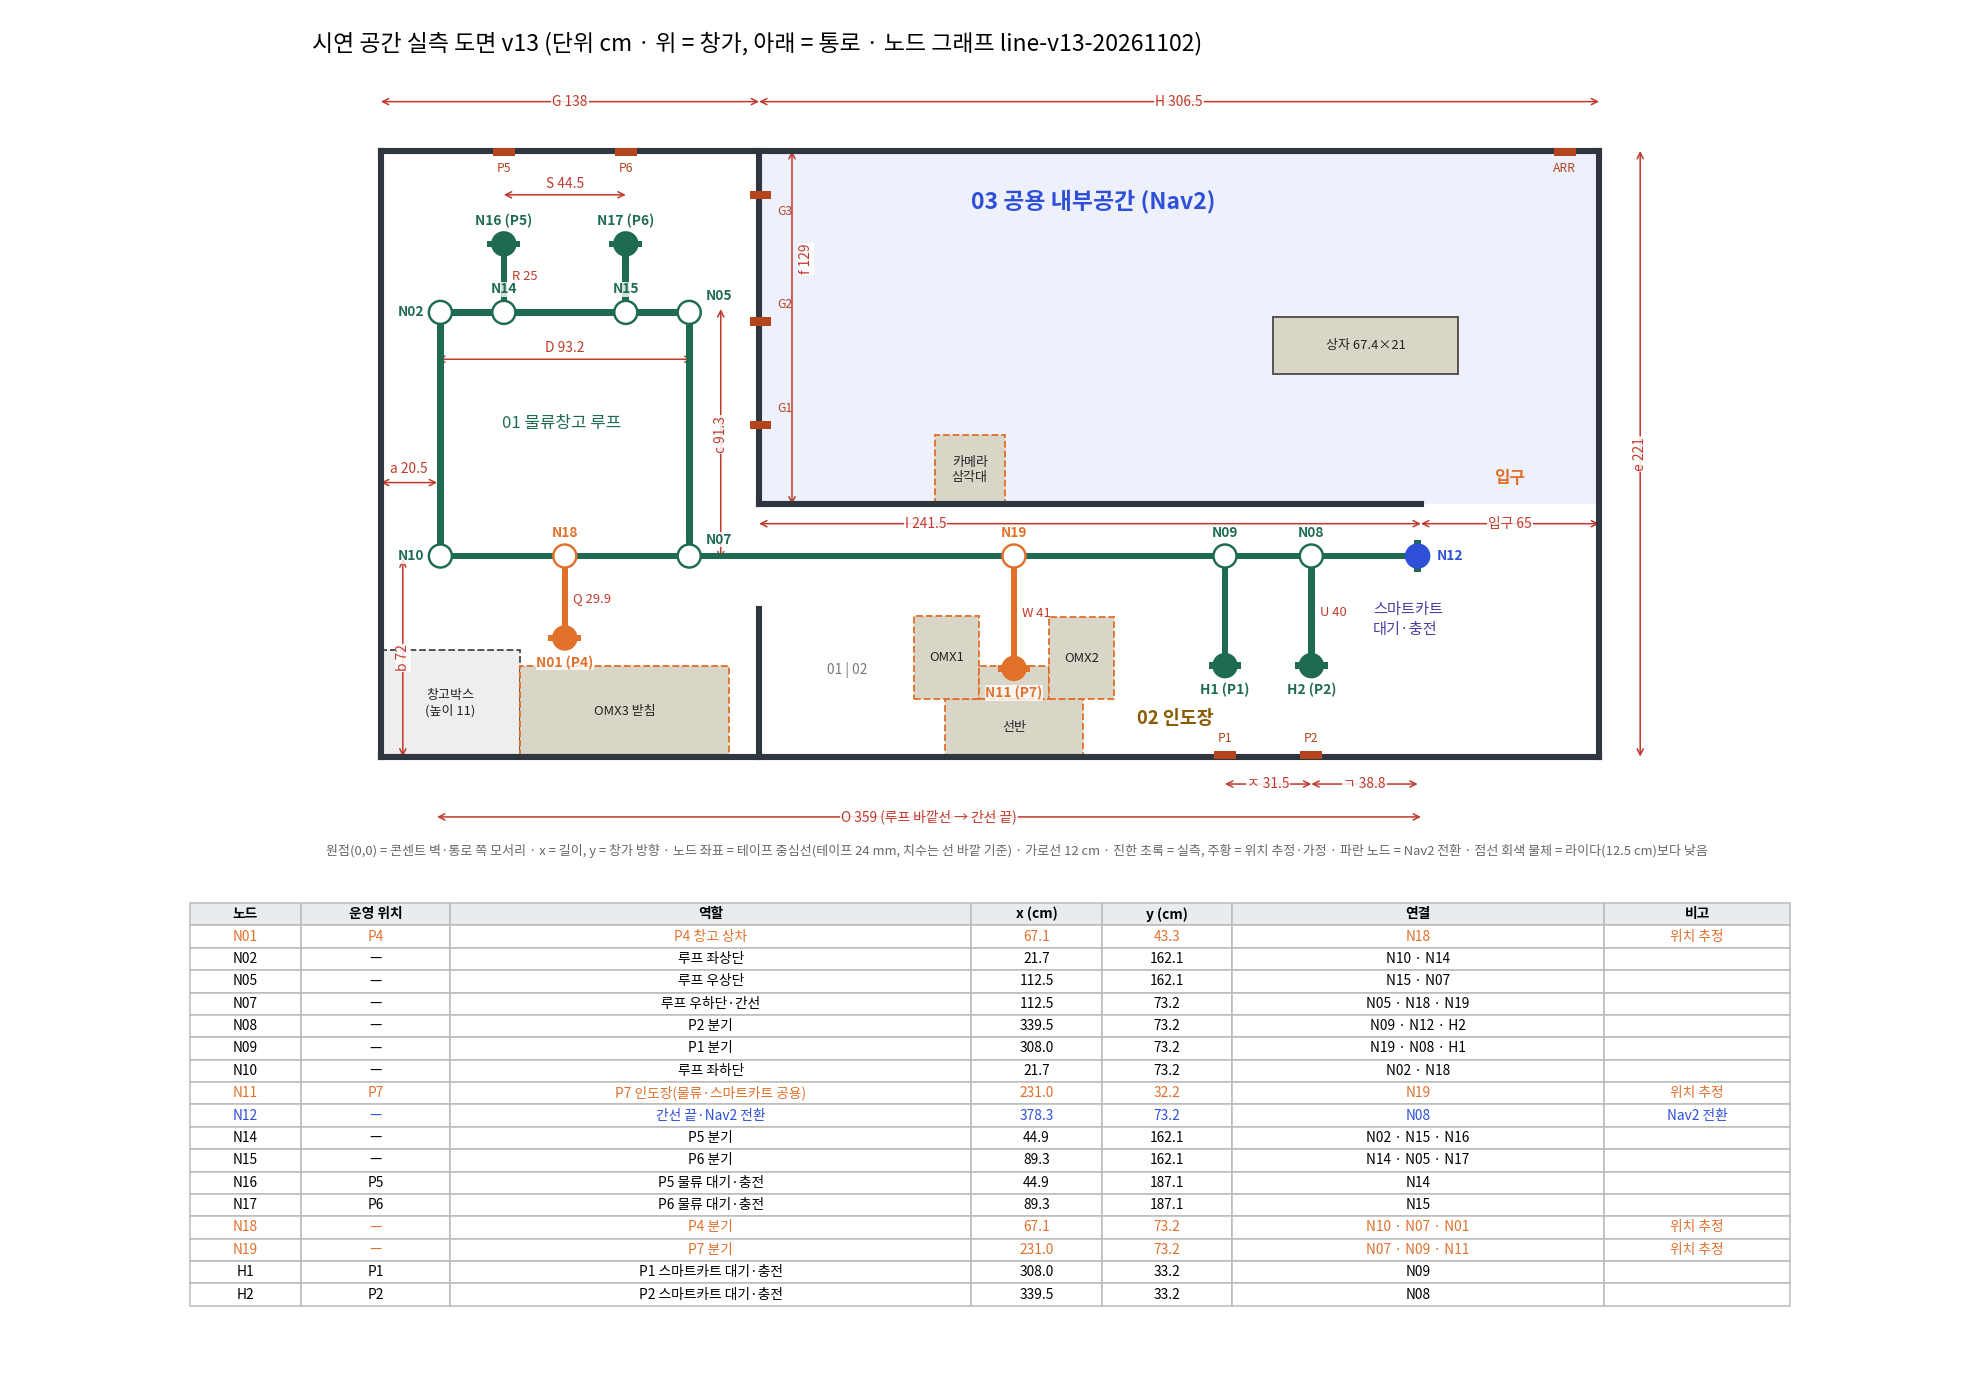
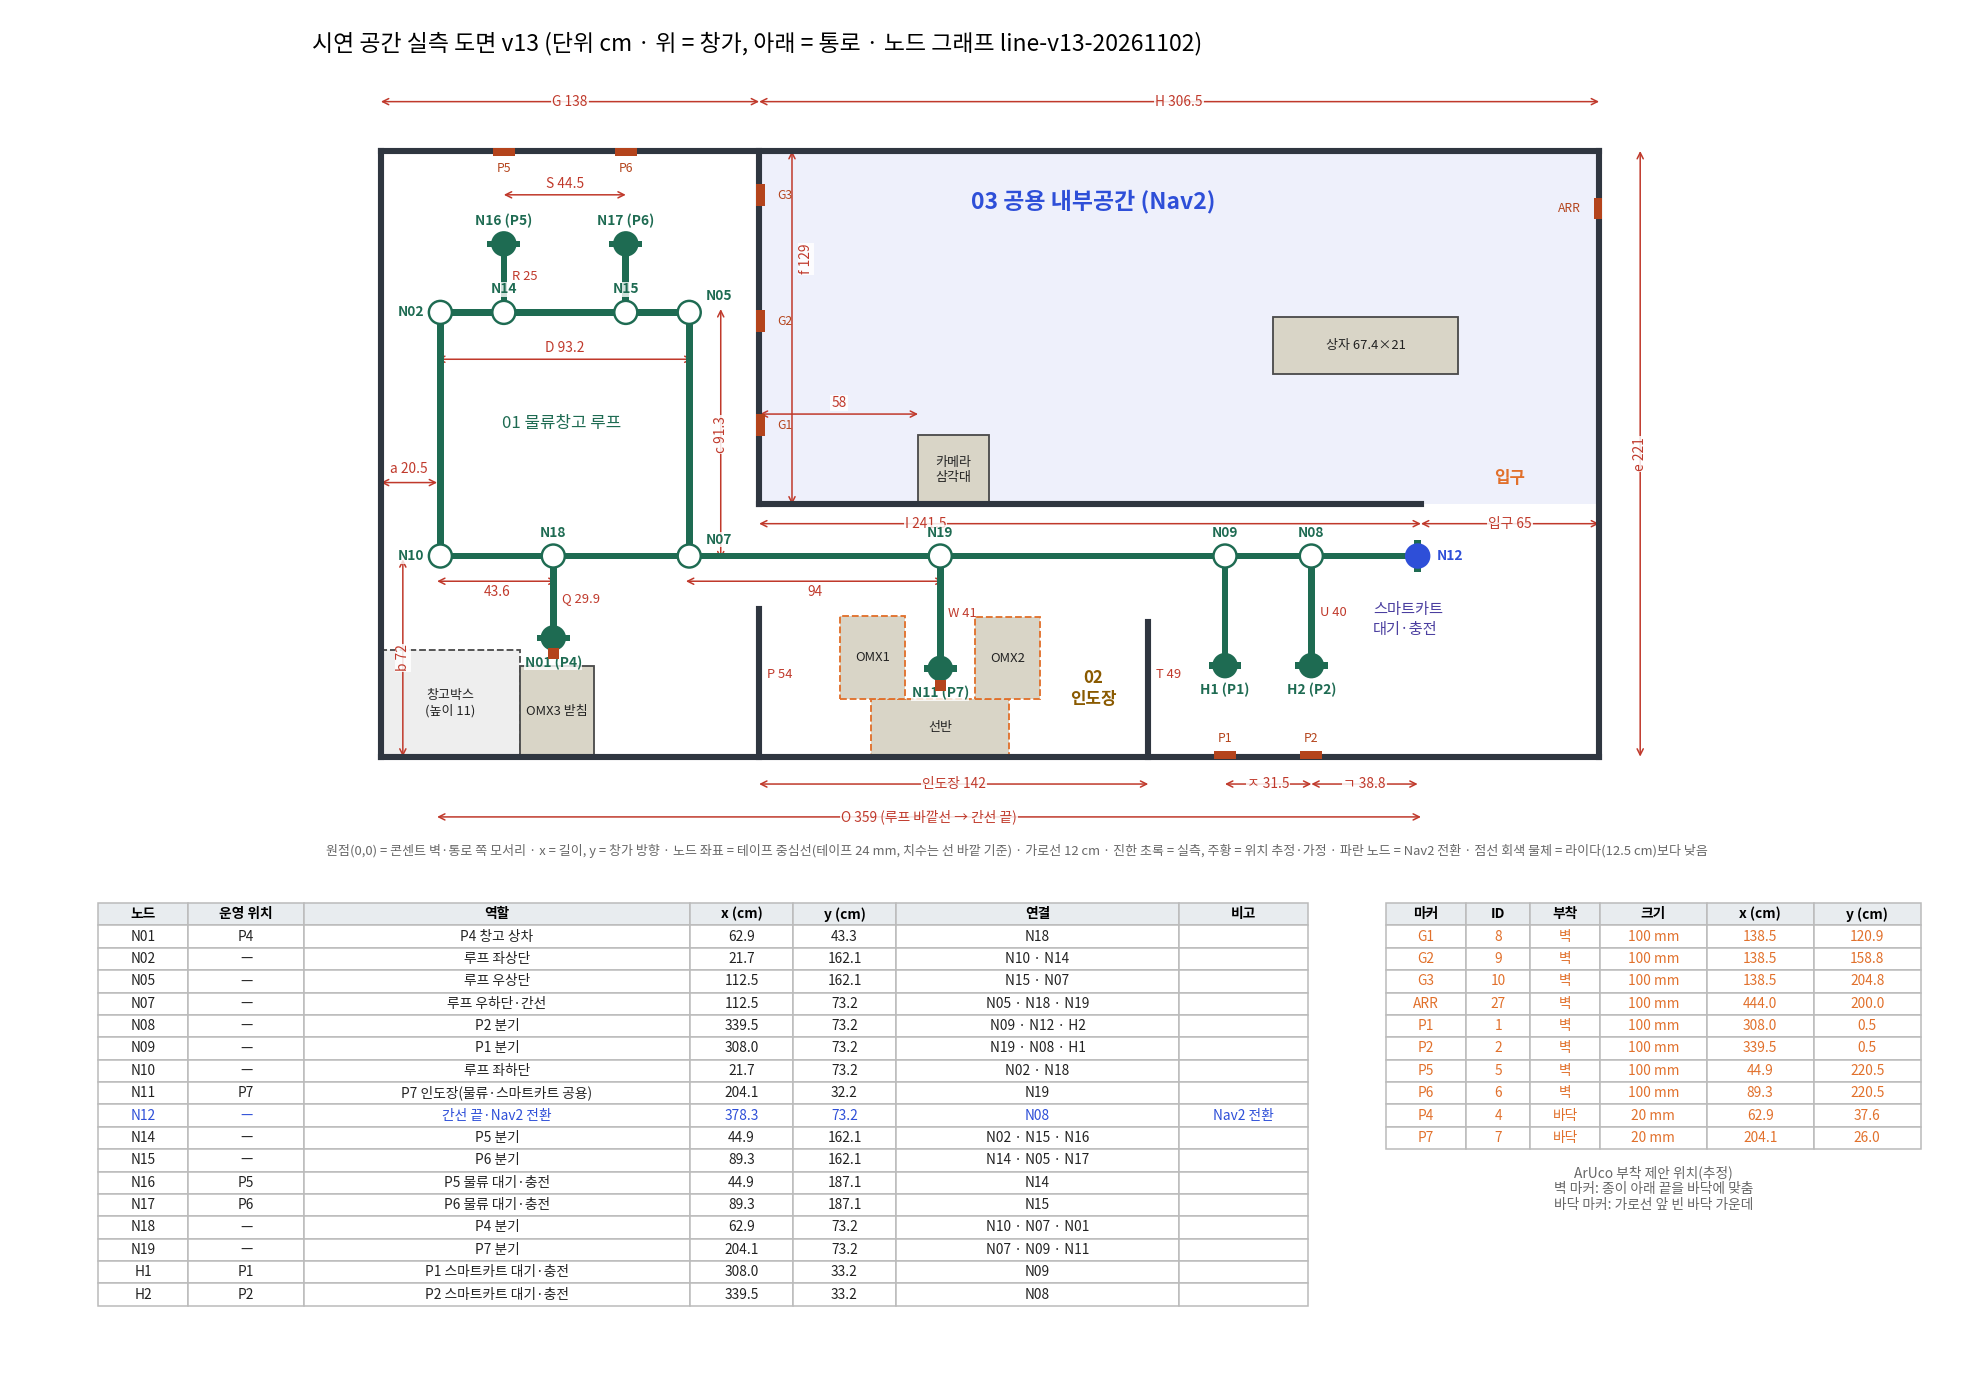
[FFT1-95] feat: v13 실측 보완(분기 x·인도장 칸막이·삼각대·OMX3)과 마커 부착 제안
- N18 x(N10 바깥선 → 43.6), N19·N11 x(N07 → 94), 인도장 가로 142·오른쪽 칸막이 T 49 추가
- 카메라 삼각대 x(G1 게이트 벽 → 58), OMX3 받침 가로 27, OMX1·2 받침은 오목을 비워 N11 진입선이 들어가게 수정
- ArUco 부착 제안 위치(P4·P7 바닥 20 mm 포함)와 도면 마커 표 추가, 바닥 마커는 world에 눕혀 생성

diff --git a/services/roport-pinky/src/roport_gz_world/roport_gz_world/draw_layout.py b/services/roport-pinky/src/roport_gz_world/roport_gz_world/draw_layout.py
@@ -5,6 +5,7 @@
 """
 
 import argparse
+import math
 import os
 import sys
 
@@ -127,21 +128,32 @@ def draw(layout, path):
                 color=edge, zorder=7,
                 bbox=dict(fc='white', ec='none', pad=0.4, alpha=0.8))
 
-    # 마커
-    for m in (raw.get('markers') or {}).get('items') or []:
+    # 마커: 벽 = 벽을 따라 긴 막대, 바닥 = 작은 사각형
+    markers = (raw.get('markers') or {}).get('items') or []
+    for m in markers:
         mx, my = m['center']
-        ax.add_patch(Rectangle((mx - 4, my - 1.5), 8, 3, fc=C['marker'], ec='none', zorder=6))
-        dy = -6 if my > 200 else 6
-        ax.text(mx + (6 if m['name'].startswith('G') else 0), my + dy, m['name'], fontsize=8,
-                color=C['marker'], ha='left' if m['name'].startswith('G') else 'center',
-                va='center', zorder=7)
+        if m.get('floor'):
+            # 이름은 노드 이름(P4·P7)과 겹치므로 표에만 적는다
+            ax.add_patch(Rectangle((mx - 2, my - 2), 4, 4, fc=C['marker'], ec='none', zorder=8))
+            continue
+        along_y = abs(math.sin(math.radians(m.get('facing_deg', 0)))) < 0.5
+        w_, h_ = (3, 8) if along_y else (8, 3)
+        ax.add_patch(Rectangle((mx - w_ / 2, my - h_ / 2), w_, h_, fc=C['marker'], ec='none',
+                               zorder=6))
+        if along_y:
+            dx = 6 if mx < x1 / 2 else -6
+            ax.text(mx + dx, my, m['name'], fontsize=8, color=C['marker'],
+                    ha='left' if dx > 0 else 'right', va='center', zorder=7)
+        else:
+            ax.text(mx, my + (-6 if my > y1 / 2 else 6), m['name'], fontsize=8,
+                    color=C['marker'], ha='center', va='center', zorder=7)
 
     # 구역 이름
     ax.text(260, 200, '03 공용 내부공간 (Nav2)', fontsize=15, color=C['switch'], ha='center',
             fontweight='bold')
     ax.text(66, 120, '01 물류창고 루프', fontsize=11, color=C['tape'], ha='center')
-    ax.text(170, 30, '01 | 02', fontsize=9, color='#777777', ha='center')
-    ax.text(290, 12, '02 인도장', fontsize=12, color='#8a5a00', ha='center', fontweight='bold')
+    ax.text(260, 25, '02\n인도장', fontsize=11, color='#8a5a00', ha='center', va='center',
+            fontweight='bold')
     ax.text(362, 50, '스마트카트\n대기·충전', fontsize=10, color='#4b3fa0', ha='left',
             va='center')
     ax.text(412, 100, '입구', fontsize=11, color=C['guess'], ha='center', fontweight='bold')
@@ -159,6 +171,12 @@ def draw(layout, path):
     _dim(ax, (124, 72), (124, 163.3), 'c 91.3', rot=90)
     _dim(ax, (20.5, -22), (379.5, -22), 'O 359 (루프 바깥선 → 간선 끝)')
     _dim(ax, (44.85, 205), (89.35, 205), 'S 44.5', offset=(0, 4))
+    _dim(ax, (20.5, 64), (64.1, 64), '43.6', offset=(0, -4))
+    _dim(ax, (111.3, 64), (205.3, 64), '94', offset=(0, -4))
+    _dim(ax, (138, -10), (280, -10), '인도장 142')
+    _dim(ax, (138.25, 125), (196, 125), '58', offset=(0, 4))
+    ax.text(141, 30, 'P 54', fontsize=8.5, color=C['dim'], ha='left', va='center')
+    ax.text(283, 30, 'T 49', fontsize=8.5, color=C['dim'], ha='left', va='center')
     _dim(ax, (308.0, -10), (339.5, -10), 'ㅈ 31.5')
     _dim(ax, (339.5, -10), (378.3, -10), 'ㄱ 38.8')
     for nid, label in (('N16', 'R 25'), ('N01', 'Q 29.9'), ('N11', 'W 41'), ('H2', 'U 40')):
@@ -174,8 +192,27 @@ def draw(layout, path):
             '추정·가정 · 파란 노드 = Nav2 전환 · 점선 회색 물체 = 라이다(12.5 cm)보다 낮음',
             fontsize=8.5, color='#666666', ha='left', va='bottom')
 
+    # 마커 부착 제안 표
+    ids = _marker_ids()
+    mrows = []
+    for m in markers:
+        mx, my = m['center']
+        where = '바닥' if m.get('floor') else '벽'
+        size = m.get('size', (raw.get('markers') or {}).get('defaults', {}).get('size'))
+        mrows.append([m['name'], str(ids.get(m['name'], '—')), where, f'{size * 10:g} mm',
+                      f'{mx:.1f}', f'{my:.1f}'])
+    max_ = fig.add_axes([0.70, 0.01, 0.27, 0.34])
+    max_.axis('off')
+    mtab = max_.table(cellText=mrows, colLabels=['마커', 'ID', '부착', '크기', 'x (cm)', 'y (cm)'],
+                      colWidths=[0.15, 0.12, 0.13, 0.2, 0.2, 0.2], loc='upper center',
+                      cellLoc='center')
+    _style_table(mtab, [C['guess']] * len(mrows))
+    max_.text(0.5, 0.42, 'ArUco 부착 제안 위치(추정)\n벽 마커: 종이 아래 끝을 바닥에 맞춤\n'
+              '바닥 마커: 가로선 앞 빈 바닥 가운데',
+              fontsize=9, color='#666666', ha='center', va='top', transform=max_.transAxes)
+
     # 노드 표
-    tax = fig.add_axes([0.03, 0.01, 0.94, 0.34])
+    tax = fig.add_axes([0.03, 0.01, 0.65, 0.34])
     tax.axis('off')
     rows = []
     for n in sorted(layout.nodes, key=lambda k: (k.id[0] != 'N', int(k.id[1:]))):
@@ -184,8 +221,17 @@ def draw(layout, path):
                      ' · '.join(n.links), note])
     tab = tax.table(cellText=rows, colLabels=['노드', '운영 위치', '역할', 'x (cm)', 'y (cm)',
                                               '연결', '비고'],
-                    colWidths=[0.06, 0.08, 0.28, 0.07, 0.07, 0.2, 0.1], loc='upper center',
+                    colWidths=[0.07, 0.09, 0.3, 0.08, 0.08, 0.22, 0.1], loc='upper center',
                     cellLoc='center')
+    colors = [C['switch'] if r[6] == 'Nav2 전환' else C['guess'] if r[6] == '위치 추정'
+              else C['text'] for r in rows]
+    _style_table(tab, colors)
+
+    fig.savefig(path, dpi=110, metadata={'Software': None})
+    plt.close(fig)
+
+
+def _style_table(tab, row_colors):
     tab.auto_set_font_size(False)
     tab.set_fontsize(9)
     tab.scale(1, 1.22)
@@ -194,13 +240,19 @@ def draw(layout, path):
         if r == 0:
             cell.set_facecolor('#e8ecef')
             cell.set_text_props(fontweight='bold')
-        elif rows[r - 1][6] == '위치 추정':
-            cell.set_text_props(color=C['guess'])
-        elif rows[r - 1][6] == 'Nav2 전환':
-            cell.set_text_props(color=C['switch'])
+        else:
+            cell.set_text_props(color=row_colors[r - 1])
 
-    fig.savefig(path, dpi=110, metadata={'Software': None})
-    plt.close(fig)
+
+def _marker_ids():
+    """docs/aruco/markers.yaml(ArUco 원본)에서 이름 → ID. 없으면 빈 표."""
+    import yaml
+    path = os.path.join(PKG_DIR, '..', '..', '..', '..', 'docs', 'aruco', 'markers.yaml')
+    try:
+        with open(path, encoding='utf-8') as f:
+            return {m['name']: m['id'] for m in yaml.safe_load(f).get('markers') or []}
+    except OSError:
+        return {}
 
 
 def main(argv=None):

diff --git a/services/roport-pinky/src/roport_gz_world/test/test_layout.py b/services/roport-pinky/src/roport_gz_world/test/test_layout.py
@@ -93,6 +93,29 @@ def test_line_dimensions_from_measurement(layout):
         assert (n10.y - half) - (_node(layout, stop).y - half) == pytest.approx(length)
     assert _node(layout, 'N08').x - _node(layout, 'N09').x == pytest.approx(31.5)  # ㅈ
     assert n12.x - _node(layout, 'N08').x == pytest.approx(38.8)                   # ㄱ
+    # 분기 x: 바깥선 → 바깥선
+    assert _node(layout, 'N18').x + half - (n10.x - half) == pytest.approx(43.6)
+    n07 = _node(layout, 'N07')
+    assert _node(layout, 'N19').x + half - (n07.x - half) == pytest.approx(94.0)
+
+
+def test_delivery_and_warehouse_dimensions(layout):
+    raw = {w['name']: w for w in layout.raw['walls']}
+    p, t = raw['partition_warehouse'], raw['partition_delivery']
+    assert t['from'][0] - p['from'][0] == pytest.approx(142)       # 인도장 가로
+    assert (p['to'][1], t['to'][1]) == (54, 49)                    # P · T
+    objs = {o['name']: o for o in layout.raw['objects']}
+    cam = objs['camera_tripod']
+    assert cam['min'][0] - 138 == pytest.approx(58)                # G1 게이트 벽 → 삼각대
+    omx3 = objs['omx3_base']
+    assert omx3['max'][0] - omx3['min'][0] == pytest.approx(27)    # d
+    # P4 가로선은 OMX3 받침 앞 e 9.6 (Q 29.9 로 계산한 값과 0.5 cm 이내)
+    n01 = _node(layout, 'N01')
+    assert n01.y - layout.line_width / 2 - omx3['max'][1] == pytest.approx(9.6, abs=0.6)
+    # N11 가로선은 OMX1·2 받침 오목 안
+    half = layout.bar_length / 2
+    assert objs['omx12_left']['max'][0] < _node(layout, 'N11').x - half
+    assert _node(layout, 'N11').x + half < objs['omx12_right']['min'][0]
 
 
 def test_node_graph(layout):
@@ -125,10 +148,8 @@ def test_tape_and_bars_from_nodes(layout):
 
 
 def test_nodes_clear_of_obstacles(layout):
-    """테이프 노드가 벽·물체 안에 있지 않은지. N11(P7)은 OMX1·2 받침 치수와 맞지 않아 제외."""
+    """테이프 노드가 벽·물체 안에 있지 않은지."""
     for n in layout.nodes:
-        if n.id == 'N11':
-            continue
         wx, wy = layout.frame.to_world(n.x, n.y)
         clearance = min(_dist_point_box(wx, wy, b) for b in layout.walls + layout.objects
                         if b.sz > LIDAR)
@@ -169,10 +190,10 @@ def test_spawn_point_is_free(layout):
 
 def test_provisional_values_are_marked(layout):
     names = layout.provisional_names()
-    for expected in ('omx3_base', 'omx12_back', 'shelf_02', 'camera_tripod', 'tape_N18_N01',
-                     'bar_N11', 'marker_P5'):
+    for expected in ('omx12_left', 'omx12_right', 'shelf_02', 'marker_P5', 'marker_P7'):
         assert expected in names
-    for measured in ('box_03', 'outer_aisle', 'zone03_bottom', 'tape_N09_H1', 'bar_N16'):
+    for measured in ('box_03', 'outer_aisle', 'zone03_bottom', 'partition_delivery', 'omx3_base',
+                     'camera_tripod', 'tape_N18_N01', 'tape_N19_N11', 'bar_N11', 'bar_N16'):
         assert measured not in names
 
 
@@ -234,7 +255,8 @@ def test_map_pixels(layout):
     assert at(412, 80) == generate_map.FREE         # 03 입구
     assert at(359, 150) == generate_map.OCCUPIED    # 03 상자
     assert at(25, 20) == generate_map.FREE          # 창고박스 11 cm < 라이다
-    assert at(100, 15) == generate_map.OCCUPIED     # OMX3 받침(벽 높이로 둠)
+    assert at(64, 15) == generate_map.OCCUPIED      # OMX3 받침(벽 높이로 둠)
+    assert at(280, 25) == generate_map.OCCUPIED     # 인도장 오른쪽 칸막이 T
     assert at(250, 73.2) == generate_map.FREE       # 테이프는 안 그림
     assert at(200, -10) == generate_map.UNKNOWN     # 벽 바깥
 

diff --git a/services/roport-pinky/src/roport_gz_world/roport_gz_world/layout.py b/services/roport-pinky/src/roport_gz_world/roport_gz_world/layout.py
@@ -276,10 +276,16 @@ class Layout:
             cx_cm, cy_cm = _point(m.get('center'), name)
             facing = float(m.get('facing_deg', 0.0))
             cx, cy = self.frame.to_world(cx_cm, cy_cm)
+            yaw = math.radians(facing + self.frame.yaw_deg)
+            provisional = bool(m.get('provisional', defaults.get('provisional', False)))
+            if m.get('floor'):
+                # 바닥에 눕힌 1 mm 두께 종이
+                out.append(Box(f'marker_{name}', cx, cy, 0.0005, size / 100.0, size / 100.0,
+                               0.001, yaw, provisional))
+                continue
             # 판의 두께 방향 = facing 방향
             out.append(Box(f'marker_{name}', cx, cy, zc / 100.0, 0.005, size / 100.0,
-                           size / 100.0, math.radians(facing + self.frame.yaw_deg),
-                           bool(m.get('provisional', defaults.get('provisional', False)))))
+                           size / 100.0, yaw, provisional))
         return out
 
     def provisional_names(self):

diff --git a/services/roport-pinky/src/roport_gz_world/README.md b/services/roport-pinky/src/roport_gz_world/README.md
@@ -67,18 +67,17 @@ ros2 launch pinky_navigation gz_bringup_launch.xml \
 
 | 항목 | 가정 |
 |---|---|
-| P4 분기(N18·N01) x | 루프 가운데 67.1 |
-| P7 분기(N19·N11) x, 02 선반·OMX1·2 받침 x | v12 추정 231 기준 가운데 정렬 |
-| OMX1·2 받침 모양 | 좌우 대칭 U자 |
-| OMX3 받침 | 오른쪽 끝 = 왼쪽 벽에서 127 |
-| 03 카메라 삼각대 x | v12 위치(03 왼쪽 벽에서 64) |
-| 마커 위치 | 전부 추정 |
+| 02 선반·OMX1·2 받침 x | N11 기준 가운데 정렬, 받침은 좌우 대칭(가운데 오목에 N11 진입선) |
+| N11 가로선 ↔ 선반 | W 41로 둔 가로선과 선반(깊이 21) 사이가 10 cm라 실측 V 4 cm와 6 cm 다름 |
+| 마커 위치 | 부착 제안 위치(정차 노드 정면 벽, 바닥은 가로선 앞) |
+
+N18·N19 x는 「바깥선 → 바깥선」 거리(43.6, 94)로 계산했습니다.
 
 ## 검증
 
 | 항목 | 결과 |
 |---|---|
-| 단위 테스트 (`python3 -m pytest test`) | 실측 치수(a·b·c·D·O·Q·R·S·U·W·ㅈ·ㄱ·I·입구), 노드 그래프(연결 대칭·한 그래프·정차 노드 = 가로선), world·지도와 배치 일치, SLAM 지도와의 벽 정합, 지도 픽셀, `gz sdf -k` |
+| 단위 테스트 (`python3 -m pytest test`) | 실측 치수(a·b·c·D·O·Q·R·S·U·W·ㅈ·ㄱ·I·입구·인도장 142·P·T·d·N18·N19·삼각대 58), 노드 그래프(연결 대칭·한 그래프·정차 노드 = 가로선), world·지도와 배치 일치, SLAM 지도와의 벽 정합, 지도 픽셀, `gz sdf -k` |
 | v12 시뮬레이션 스캔 ↔ SLAM 지도 (이전 배치) | 6개 위치에서 라이다 끝점과 지도 점유 칸의 거리 중앙값 2.2 cm, 5 cm 이내 95.7% |
 
 실측 지도는 실로봇 AMCL로 아직 확인하지 않았습니다. 시뮬레이션 결과는 실로봇 주행 검증을 대신하지 않습니다.
